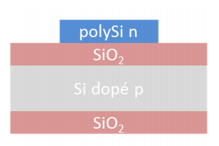
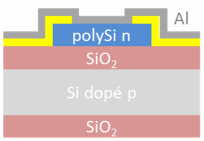
update smart devices

diff --git a/smartdevicesproject.html b/smartdevicesproject.html
@@ -63,14 +63,23 @@
 		<div class="row">
 			
 			<!-- Sidebar -->
-			<aside class="col-md-4 sidebar sidebar-left">
+			<aside class="col-md-3 sidebar sidebar-left">
 
 				<div class="row widget">
 					<div class="col-xs-12">
 						<h4>Smart Devices</h4>
 						<p align="justify">
-							The goal of this project was to follow the entire creation process of a sensor. From the manufacturing to the datasheet writting.
-							During this project, we have created and used a nano-particle sensor.
+							The goal of this project was to follow the entire creation process of a sensor and its deployment. From the manufacturing to the usage into an IoT environment.<br><br>
+							During this project, we have created our own nano-particles sensor, then we have used in to create a complete sensor usable into an IoT environment.<br>
+							So we had to 'surround' this sensor with several components to allow it to be usable by a card, which will then be able to communicate 
+							the different measurements made by this sensor.<br>
+							This means we had to create a PCB to integrate the sensor, then integrate a communication module, allowing the use of LoRa protocol, to send this data.<br>
+							We have also created a signal adaptation stage to allow our PCB to retrieve the correct information at the output of our sensor. <br>
+							At the very end of the project, we also used Node-Red to create a really simple GUI to to allow the user of the sensor to have access 
+							in a simple and user-friendly way to the different measurements made by the sensor.<br><br>
+
+							<img src="assets/images/bob.png" alt="" class="img-rounded center-block">
+
 						</p>
 					</div>
 				</div>
@@ -78,51 +87,117 @@
 			<!-- /Sidebar -->
 
 			<!-- Article main content -->
-			<article class="col-md-8 maincontent">
+			<article class="col-md-9 maincontent">
 				<header class="page-header">
 					<h1 class="page-title">Smart Devices</h1>
 				</header>
 
-				<p align="justify">
-					
-					<img src="assets/images/bob.png" alt="" class="img-rounded pull-right" width="150">
-
-					Résumé du projet | contexte | Lorem ipsum dolor sit amet, consectetur adipisicing elit. Laudantium, itaque, cumque, maxime obcaecati reprehenderit ea dignissimos amet voluptatem id excepturi facilis totam veritatis maiores eveniet neque explicabo temporibus quisquam in ex ab fugiat ipsa tempore sunt corporis nostrum quam illum!
-				
-				</p>
-
 				<h2>Sensor Manufacturing</h2>
 				<h3>WO<sub>3</sub> nanoparticle synthesis</h3>
 
-				<p align="justify">A, quibusdam, nobis, eveniet consequatur alias doloremque officia blanditiis fuga et numquam labore reiciendis voluptas quis repellat quos sunt non dolore consectetur at sit nam tenetur dolorem? Harum, quas, sit perspiciatis esse odit temporibus aperiam nulla aspernatur sequi fugiat tempore?</p>
+				<p align="justify">
+					
+					We first prepared the solution containing the <b>tungsten trioxide nanoparticles</b> (WO<sub>3</sub>). 
+					We were able to <b>synthesize</b> these molecules from a chemical reaction, all in an aqueous medium, to <b>limit the risks</b> associated with nanoparticles 
+					(both dust and dispersion in the water network by the uncontrolled solution).<br><br>
+					We followed a protocol which aimed, in addition to producing these molecules of tungsten trioxide, to <b>limit the ecological impact</b> of this synthesis, mainly by <b>limiting the waste</b> related to this procedure (in particular by optimizing the fact that several groups carry out the same procedure, and thus limit to the maximum the rinsing (and thus the generation of waste related to this rinsing (dirty water) of the tools).<br><br>
+					
+					The whole procedure to create the nanoparticles in the solution is presented here :
+
+					<button id="btnSynth" class="btn btn-primary btn-xs" onclick="affichManipul('btnSynth','divSynth','procedure')">
+						Show procedure
+					</button>
+					<div id="divSynth" style="display: none"><br>
+						<img src="assets/images/wo3_synth.PNG" alt="" class="img-rounded center-block">
+						<hr size="10" color="black">
+					</div>
+
+					Once these nanoparticles were created, it was necessary to organize them in the form of <b>nanotubes</b> to be able to deposit them on the interdigital combs on the sensor (this will be developed in the next part).<br><br>
+
+					The whole procedure to make the nanoparticles growth is presented here :
+
+					<button id="btnGrowth" class="btn btn-primary btn-xs" onclick="affichManipul('btnGrowth','divGrowth','procedure')">
+						Show procedure
+					</button>
+					<div id="divGrowth" style="display: none"><br>
+						<img src="assets/images/wo3_synth.PNG" alt="" class="img-rounded center-block">
+						<hr size="10" color="black">
+					</div>
+
+
+				</p>
 
 				<h3>Elaboration of the microelectronic chip</h3>
 				
 				<p align="justify">
 
-					<img src="assets/images/photogravure_debut.PNG" alt="" class="img-rounded pull-left" width="150">
-					
-					A, quibusdam, nobis, eveniet consequatur alias doloremque officia blanditiis fuga et numquam labore reiciendis voluptas quis repellat quos sunt non dolore consectetur at sit nam tenetur dolorem? Harum, quas, sit perspiciatis esse odit temporibus aperiam nulla aspernatur sequi fugiat tempore?
-					<br>
-					
-					<img src="assets/images/photogravure_final.PNG" alt="" class="img-rounded pull-right" width="150">
+					<img src="assets/images/capteur.PNG" alt="" class="img-rounded pull-right" width="200">
 
+					We then had to proceed with the creation of the sensor chip itself, the one that would host our solution containing the nanoparticles.
+					The sensor is composed of 3 parts: a <b>heating resistor</b> made of doped poly-silicon (2-7 on the image), an <b>aluminium resistor</b> (4-5 on the image) for heating or measurement, and two <b>interdigital combs</b> (one on each side, 1-3 and 6-8 on the image) which will receive the layer of nanoparticles and which will then become our <b>resistors sensitive</b> to the gaseous environment (which will therefore make the gas sensor work).
+					<br><br>
+					Several steps in the chip creation process had already been completed when we recovered the chip, such as <b>polysilicon deposition</b>, <b>doping</b> and <b>etching</b>, <b>dry oxide deposition</b> and <b>photo-etching</b>, and <b>metallization</b>.<br><br>
+
+					
+					<img src="assets/images/photogravure_debut.PNG" alt="" class="img-rounded pull-left" width="150">
+					So the chip had this cut when we started working on it.<br><br>
+					We had to do the <b></b>metal etching, that is to say, remove, by <b></b>photo-engraving, the aluminium where it is not necessary (to obtain the comb shapes we wanted). 
+					<img src="assets/images/photogravure_final.PNG" alt="" class="img-rounded pull-right" width="150">
+					We will use a <b>resin that reacts to light</b> and will <b>attack the aluminum</b> in places where we do not want it. We will <b>protect</b> the parts to keep with an <b>'optical' mask</b> that will block the light in these places. 
+					We will then <b>chemically remove</b> the resin from the remaining areas. 
+					<br><br>
+					The whole procedure for the metal gravure is presented here :
+
+					<button id="btnMetalG" class="btn btn-primary btn-xs" onclick="affichManipul('btnMetalG','divMetalG','procedure')">
+						Show procedure
+					</button>
+					<div id="divMetalG" style="display: none"><br>
+						<img src="assets/images/gravure_metal.PNG" alt="" class="img-rounded center-block">
+						<hr size="10" color="black">
+					</div>
 					<br>
-					A, quibusdam, nobis, eveniet consequatur alias doloremque officia blanditiis fuga et numquam labore reiciendis voluptas quis repellat quos sunt non dolore consectetur at sit nam tenetur dolorem? Harum, quas, sit perspiciatis esse odit temporibus aperiam nulla aspernatur sequi fugiat tempore?
-				
+					The <b>metal annealing</b> will then be made by putting the chip into a 400°C oven during 20mn.<br><br>
+
+					The microelectronic chip is now ready to <b>host the nanoparticle solution</b>.
 				</p>
 
 				<h3>Integration of the sensitive layer of nanoparticles on the chip</h3>
 
 				<p align="justify">
 
-					<img src="assets/images/dielectrophoresis.PNG" alt="" class="img-rounded pull-left" width="150">
-					
-					A, quibusdam, nobis, eveniet consequatur alias doloremque officia blanditiis fuga et numquam labore reiciendis voluptas quis repellat quos sunt non dolore consectetur at sit nam tenetur dolorem? Harum, quas, sit perspiciatis esse odit temporibus aperiam nulla aspernatur sequi fugiat tempore?
-					A, quibusdam, nobis, eveniet consequatur alias doloremque officia blanditiis fuga et numquam labore reiciendis voluptas quis repellat quos sunt non dolore consectetur at sit nam tenetur dolorem? Harum, quas, sit perspiciatis esse odit temporibus aperiam nulla aspernatur sequi fugiat tempore?
 
+					<img src="assets/images/wedgebonding.PNG" alt="" class="img-rounded pull-left" width="150">
+
+					For the integration of the nanoparticles into the sensor, we will use <b>dielectrophoresis</b>.<br>
+
+					Before that, however, we need to make a <b>wedge bonding</b> with aluminum-silicon wires, which will allow us to integrate our chip into a <b>larger sensor</b>, so that we can easily handle it (especially via <b>pins</b> that can be <b>electrically connected easily</b>).<br>
+					
+					Because of the high precision (wires of about 25 micrometers in diameter) of the handling, it is a speaker from the AIME laboratory who realized for us this wedge bonding.<br>
+
+					The result can be seen on the left image.<br><br>
+
+					<img src="assets/images/dielectrophoresis.PNG" alt="" class="img-rounded pull-right" width="150">
+					
+					Once the different pins were connected and accessible, we were able to perform <b>dielectrophoresis</b>.<br>
+
+					We had to connect the pins of the interdigital comb, then deposit a drop of our <b>nanoparticle solution</b> on the sensor.We then had to pass an <b>electric current</b> for one minute.
+
+					Our particles will, thanks to the <b>dielectrophoretic force</b>, integrate on our interdigital comb, connected to the electric current.<br>
+
+					Then, after the minute but still with the current, we had to rinse the sensor with water, and absorb, with a piece of dry tissue, the excess rinsing water. Once this is finished, 
+					we can cut off the electric current.<br><br>
+
+					The whole procedure for the dielectrophoresis is presented here :
+					<button id="btnDielec" class="btn btn-primary btn-xs" onclick="affichManipul('btnDielec','divDielec','procedure')">
+						Show procedure
+					</button>
+					<div id="divDielec" style="display: none"><br>
+						<img src="assets/images/dielectrophoresis_protocol.PNG" alt="" class="img-rounded center-block">
+						<hr size="10" color="black">
+					</div>
 				</p>
 
+				<br>
 				<h3>Electrical characterization of the sensor under controlled atmosphere</h3>
 
 				<p align="justify">
